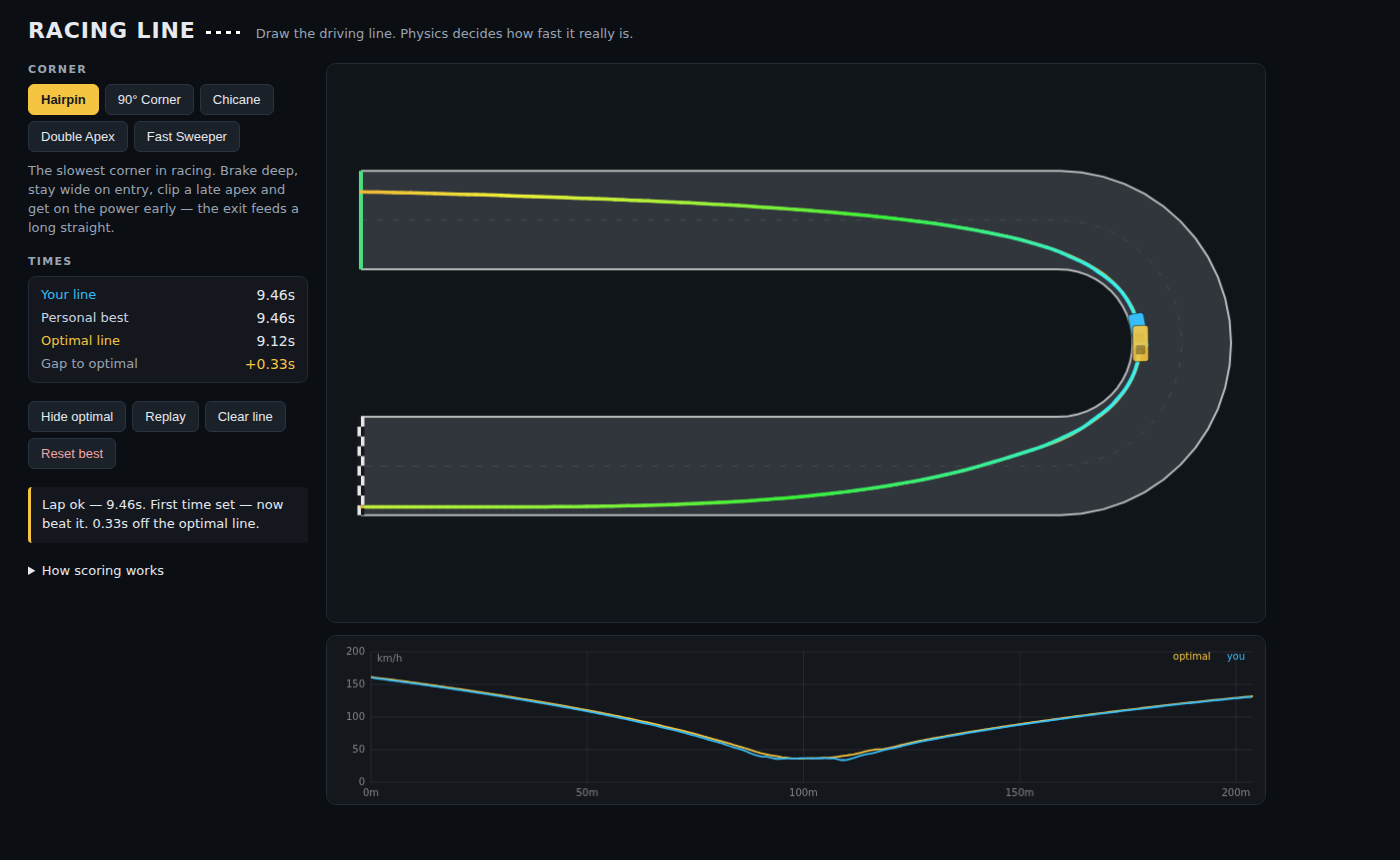
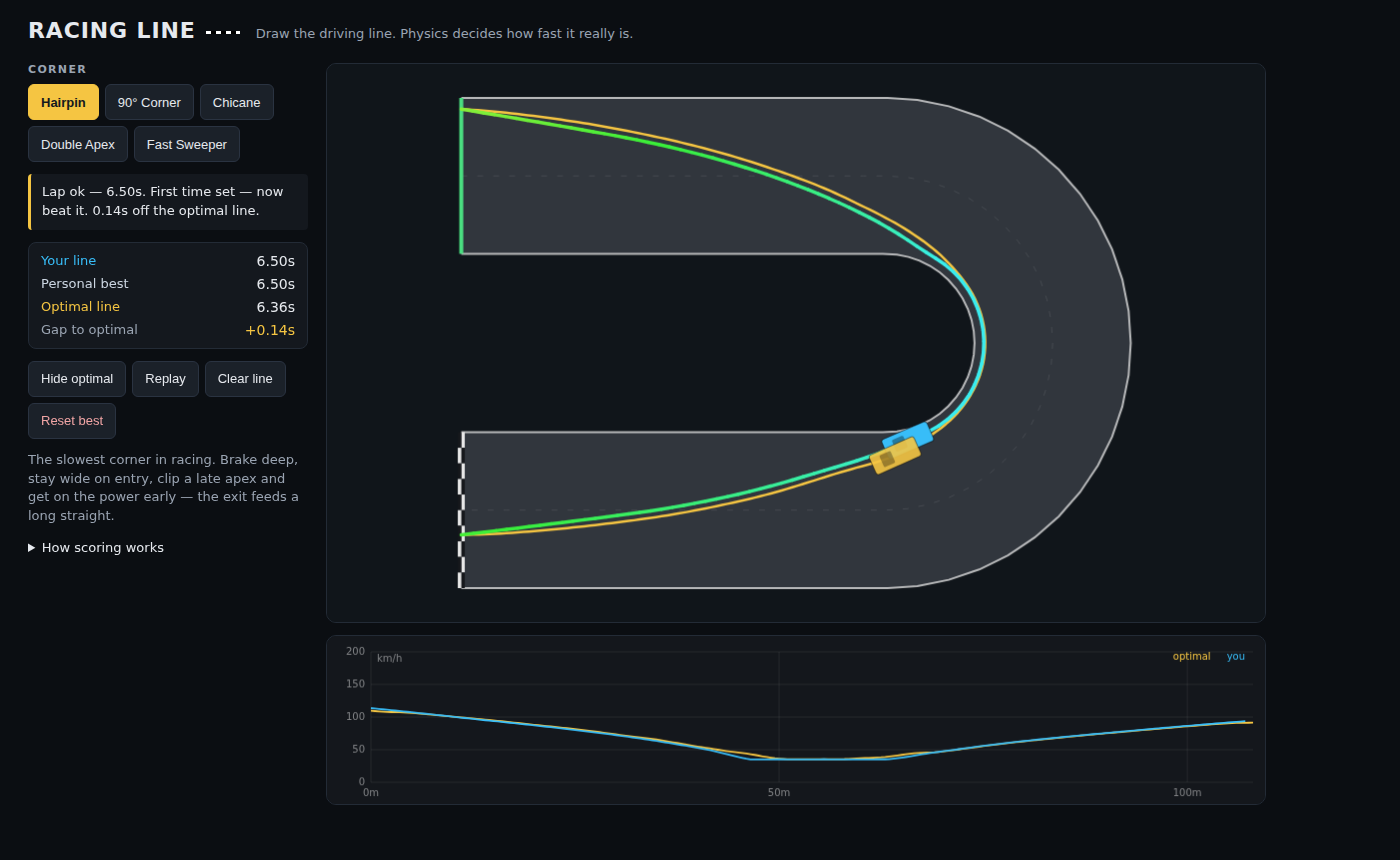
Focus on the corner: shorter approaches, wider tracks
Entry/exit straights were ~80% of each sector, so most of the drawn line
was full-throttle filler. Straights are cut to 28-38m (still enough for a
real braking and launch phase) and tracks widened ~2m for more racing
room. The corner now dominates the sector time and the phone view zooms
~1.7x. Personal-best storage key bumped to v2 since old-geometry lines
are not comparable.

Claude-Session: https://claude.ai/code/session_0132qMnWMdmSCNer7HZKVzJp

diff --git a/js/corners.js b/js/corners.js
@@ -50,32 +50,32 @@ export const CORNERS = [
   {
     id: 'hairpin',
     name: 'Hairpin',
-    width: 12,
+    width: 14,
     heading: 0,
-    segments: [{ straight: 85 }, { arc: 180, r: 15 }, { straight: 85 }],
+    segments: [{ straight: 38 }, { arc: 180, r: 15 }, { straight: 38 }],
     blurb:
       'The slowest corner in racing. Brake deep, stay wide on entry, clip a late apex and get on the power early — the exit feeds a long straight.',
   },
   {
     id: 'ninety',
     name: '90° Corner',
-    width: 11,
+    width: 13,
     heading: 20,
-    segments: [{ straight: 80 }, { arc: -90, r: 22 }, { straight: 80 }],
+    segments: [{ straight: 35 }, { arc: -90, r: 22 }, { straight: 35 }],
     blurb:
       'The classic street-circuit right-angle. Out wide, apex late, use every centimetre of exit kerb.',
   },
   {
     id: 'chicane',
     name: 'Chicane',
-    width: 11,
+    width: 13,
     heading: 10,
     segments: [
-      { straight: 70 },
+      { straight: 32 },
       { arc: -50, r: 20 },
       { straight: 8 },
       { arc: 50, r: 20 },
-      { straight: 70 },
+      { straight: 32 },
     ],
     blurb:
       'A right-left flick. The fastest way through is to straighten it as much as the track edges allow.',
@@ -83,14 +83,14 @@ export const CORNERS = [
   {
     id: 'double-apex',
     name: 'Double Apex',
-    width: 11.5,
+    width: 13.5,
     heading: 0,
     segments: [
-      { straight: 60 },
+      { straight: 30 },
       { arc: 55, r: 30 },
       { straight: 18 },
       { arc: 55, r: 28 },
-      { straight: 60 },
+      { straight: 30 },
     ],
     blurb:
       'Two linked left-handers. Do you clip both apexes, or sweep one smooth arc through the middle?',
@@ -98,9 +98,9 @@ export const CORNERS = [
   {
     id: 'sweeper',
     name: 'Fast Sweeper',
-    width: 12,
+    width: 14,
     heading: -30,
-    segments: [{ straight: 45 }, { arc: 130, r: 55 }, { straight: 45 }],
+    segments: [{ straight: 28 }, { arc: 130, r: 55 }, { straight: 28 }],
     blurb:
       'A long, fast corner. Smoothness is everything — every extra degree of steering costs you speed.',
   },

diff --git a/js/storage.js b/js/storage.js
@@ -1,6 +1,8 @@
 // Personal bests, persisted per corner in localStorage.
 
-const key = (cornerId) => `racing-line/best/${cornerId}`;
+// v2: corner geometry changed (shorter approaches, wider tracks) — bests
+// stored against the old layouts are not comparable and are left behind.
+const key = (cornerId) => `racing-line/best/v2/${cornerId}`;
 
 export function loadBest(cornerId) {
   try {